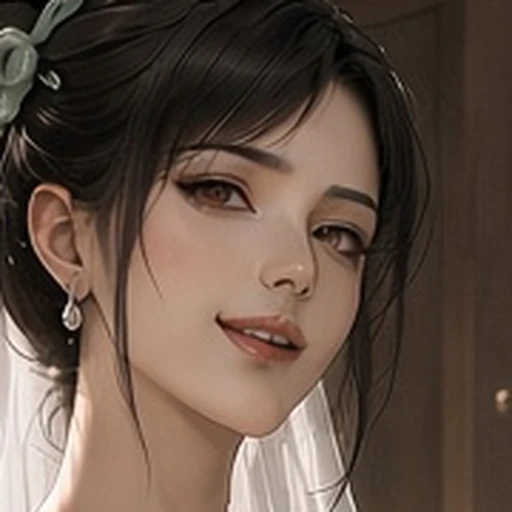
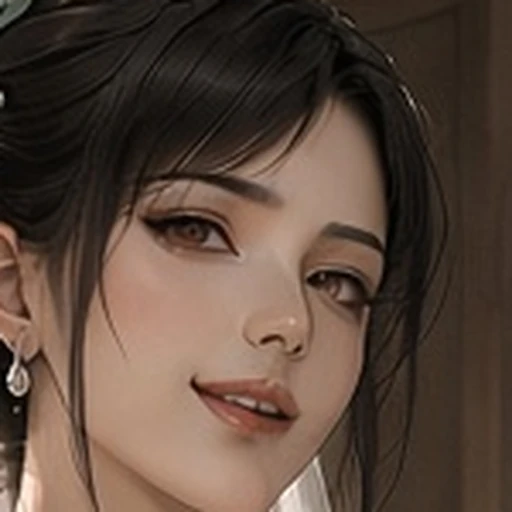
采用已确认的月誓头像裁切。
只替换 512 WebP：中心 (545, 170)、边长 150、框 (470, 95, 620, 245)，不旋转。头像地址升到 v=7，config.js 缓存升到 v=70。

diff --git a/tools/hero-roster.test.js b/tools/hero-roster.test.js
@@ -50,7 +50,7 @@ const RESTORED_PORTRAITS = {
 };
[4 lines of base64/hex data omitted]
 const NEW_FOUR_HEROES = {
   ziling: {
     name: '紫绫影姬',
@@ -371,7 +371,7 @@ assert.strictEqual(yueshi.skill.mainMult, 1.2);
 assert.strictEqual(yueshi.skill.splashMult, 0);
 assert.strictEqual(yueshi.img, 'assets/hero_yueshi_hd.jpg?v=2');
 assert.strictEqual(yueshi.poster, 'assets/hero_yueshi_poster.jpg?v=2');
-assert.strictEqual(yueshi.avatar, 'assets/battle/avatars/yueshi.webp?v=6');
+assert.strictEqual(yueshi.avatar, 'assets/battle/avatars/yueshi.webp?v=7');
 assert.strictEqual(yueshi.avatarPos, '50% 22%');
 assert.strictEqual(yueshi.avatarScale, 2.6);
 assert.strictEqual(read(stripQuery(yueshi.img)).length, 524264);
@@ -860,7 +860,7 @@ assert.strictEqual(git(['diff', '--stat', MERGED, '--', 'css/style.css', 'js/sta
 
 const index = text('index.html');
 assert.ok(index.includes('css/style.css?v=82'));
-assert.ok(index.includes('js/config.js?v=69'));
+assert.ok(index.includes('js/config.js?v=70'));
 assert.ok(index.includes('js/state.js?v=31'));
 assert.ok(index.includes('js/battle.js?v=34'));
 assert.ok(index.includes('js/game.js?v=44'));

diff --git a/js/config.js b/js/config.js
@@ -1086,7 +1086,7 @@
         name: '月誓灵姝',
         quality: 'tian',
         unlockCond: '踏入仙途（初始免费解锁）',
-        avatar: 'assets/battle/avatars/yueshi.webp?v=6',
+        avatar: 'assets/battle/avatars/yueshi.webp?v=7',
         avatarPos: '50% 22%',
         avatarScale: 2.6,
         img: 'assets/hero_yueshi_hd.jpg?v=2',

diff --git a/index.html b/index.html
@@ -575,7 +575,7 @@
   </div>
 
   <script src="js/no-zoom.js?v=22"></script>
-  <script src="js/config.js?v=69"></script>
+  <script src="js/config.js?v=70"></script>
   <script src="js/equip.js?v=22"></script>
   <script src="js/state.js?v=31"></script>
   <script src="js/titles.js?v=23"></script>
